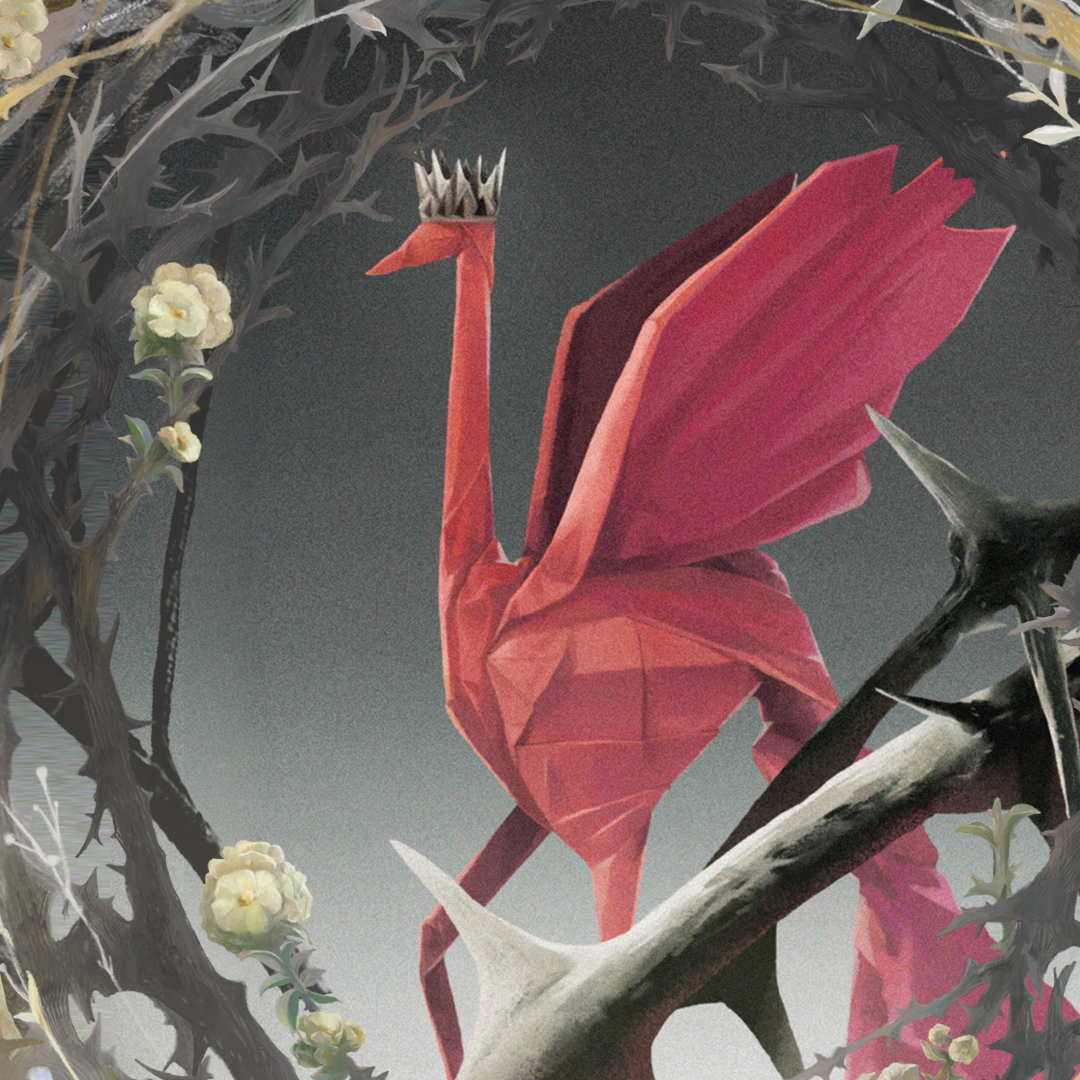
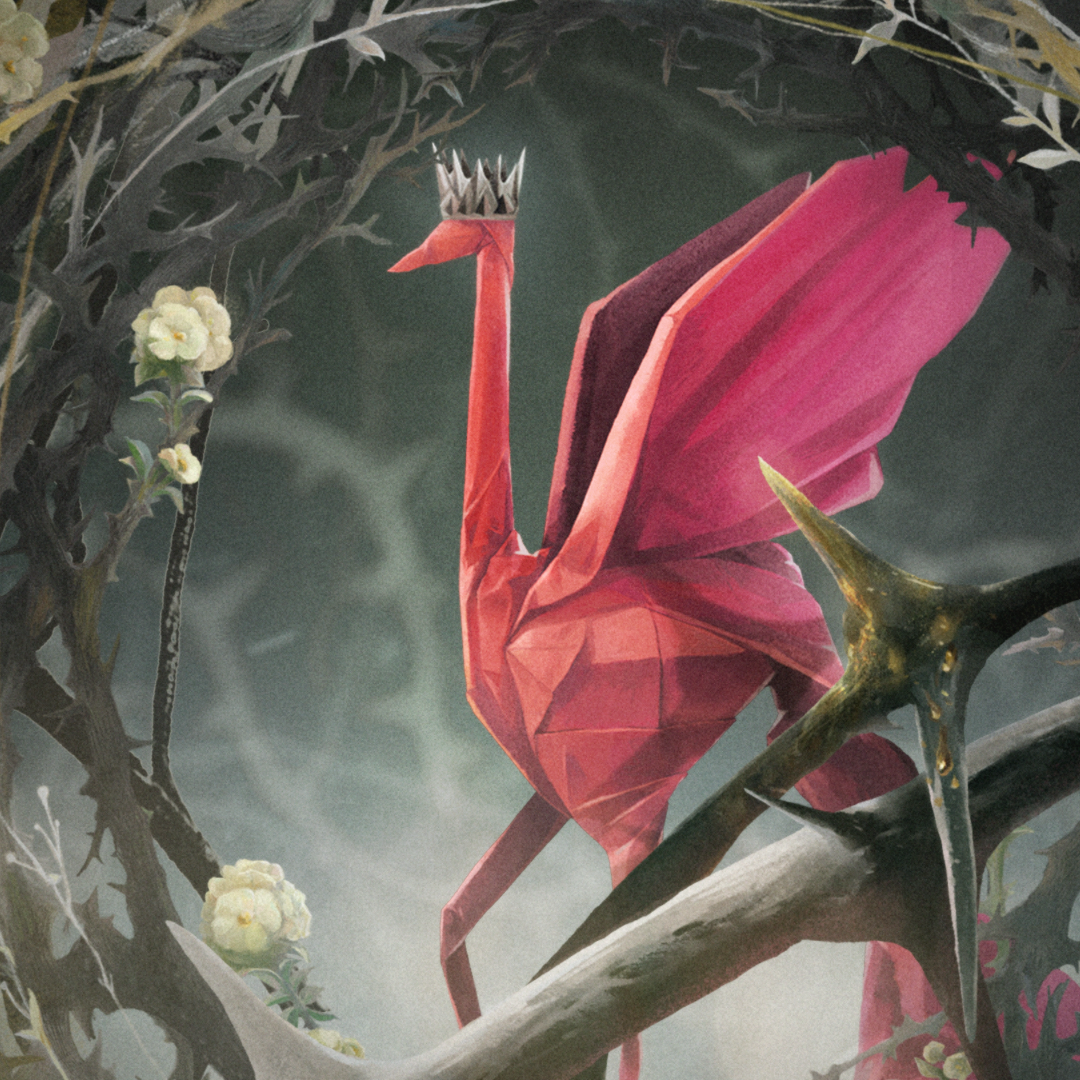
index- mistMove

diff --git a/index.html b/index.html
@@ -67,12 +67,52 @@ body {
   width: 100%; height: 100%;
   object-fit: cover; object-position: center 20%;
   display: block;
+  position: relative;
+  z-index: 0;
+  animation: heroZoom 24s ease-in-out infinite;
 }
 .hero::after {
   content: '';
-  position: absolute; inset: 0;
-  background: linear-gradient(to bottom, transparent 35%, rgba(18,16,14,0.65) 100%);
+  position: absolute;
+  inset: 0;
+  z-index: 2;
+  background:
+    radial-gradient(
+      ellipse at center,
+      transparent 45%,
+      rgba(0,0,0,.18) 100%
+    ),
+
+    linear-gradient(
+      to bottom,
+      transparent 25%,
+      rgba(18,16,14,.55) 100%
+    );
   pointer-events: none;
+}
+.hero::before {
+  content: '';
+  position: absolute;
+  inset: -5%;
+  z-index: 1;
+  background:
+    radial-gradient(
+      circle at 50% 40%,
+      rgba(255,255,255,.18),
+      transparent 55%
+    );
+  animation: mistMove 18s ease-in-out infinite;
+  pointer-events: none;
+  will-change: transform;
+}
+@keyframes mistMove{
+  0%{transform:translateX(-80px); }
+  50%{transform:translateX(80px); }
+  100%{ transform:translateX(-80px); }
+}
+@keyframes heroZoom {
+  0%, 100% { transform: scale(1); }
+  50% { transform: scale(1.04); }
 }
 
 /* 左下文案 */